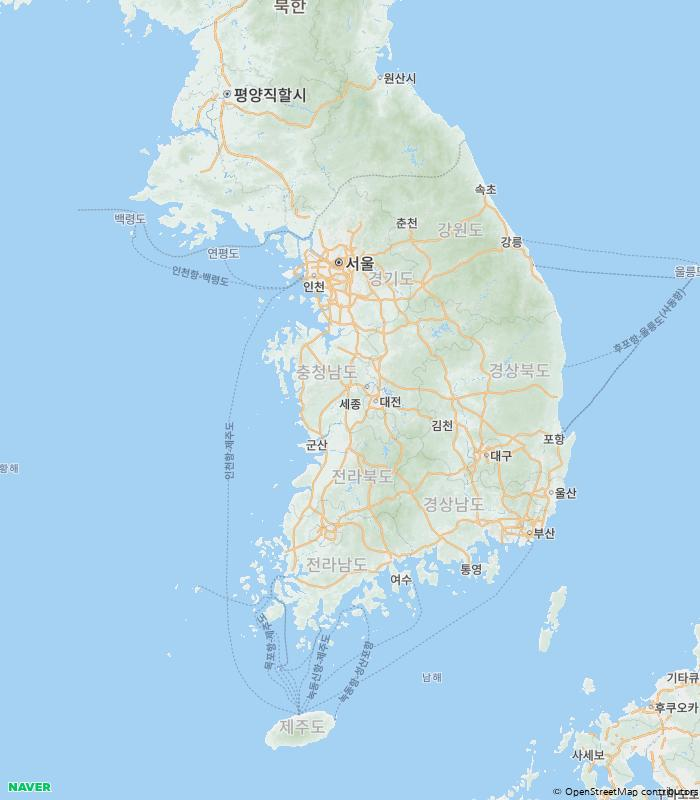
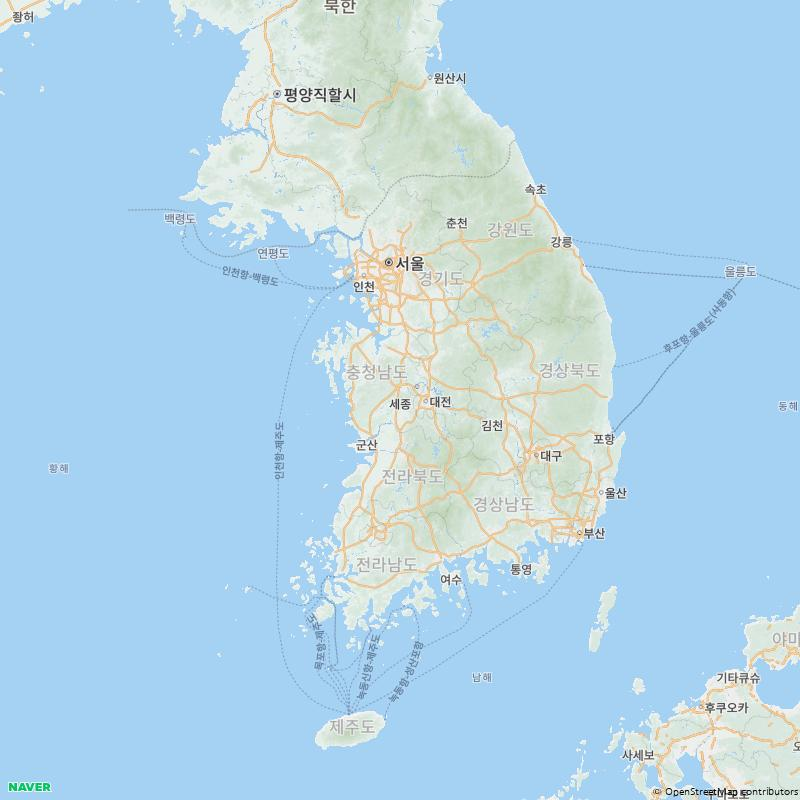
검색과 필터링 시 결과가 없으면 "결과 없음 출력"

diff --git a/src/main/java/org/howWeather/Filter.java b/src/main/java/org/howWeather/Filter.java
@@ -47,7 +47,7 @@ public class Filter extends JPanel implements ActionListener {
     public void VisibleFilter() {
         setLayout(new BoxLayout(this, BoxLayout.Y_AXIS));
         setBackground(Color.white);
-        setPreferredSize(new Dimension(300, 750));
+        setPreferredSize(new Dimension(150, 800));
 
         themeGrp = new FilterGroup("테마", new String[]{"문화/예술", "쇼핑/놀이", "자연/힐링", "종교/역사/전통", "체험/학습/산업", "캠핑/스포츠"});
         regionGrp = new FilterGroup("지역", 
@@ -120,8 +120,12 @@ public class Filter extends JPanel implements ActionListener {
                 list.add(DataBase.getCourseDataList(courseData.getCourseId()));
             }
         }
-
-        motherfrm.search.pushinfoPnl(new CourseInfo(motherfrm.search, list));
+        if(list.isEmpty()){
+            motherfrm.search.noneMassage();
+        }
+        else{
+            motherfrm.search.pushinfoPnl(new CourseInfo(motherfrm.search, list));
+        }
     }
 
     private void handleSelectedThemes() {
@@ -170,7 +174,12 @@ public class Filter extends JPanel implements ActionListener {
             }
         }
 
-        motherfrm.search.pushinfoPnl(new CourseInfo(motherfrm.search, resultList));
+        if(resultList.isEmpty()){
+            motherfrm.search.noneMassage();
+        } else{
+            motherfrm.search.pushinfoPnl(new CourseInfo(motherfrm.search, resultList));
+        }
+
     }
 
     private void printRegionCourse(String region) {
@@ -181,8 +190,12 @@ public class Filter extends JPanel implements ActionListener {
             for(CourseData data: courseList){
                 list.add(DataBase.getCourseDataList(data.getCourseId()));
             }
+            if(list.isEmpty()){
+                motherfrm.search.noneMassage();
+            } else{
+                motherfrm.search.pushinfoPnl(new CourseInfo(motherfrm.search, list));
+            }
 
-            motherfrm.search.pushinfoPnl(new CourseInfo(motherfrm.search, list));
         } else {
             System.out.println("해당 지역의 코드를 찾을 수 없습니다.");
         }

diff --git a/src/main/java/org/howWeather/Search.java b/src/main/java/org/howWeather/Search.java
@@ -27,6 +27,7 @@ public class Search extends JPanel implements ActionListener {
                 reset();
             }
         });
+        setPreferredSize(new Dimension(250,800));
         VisibleSearch();
     }
 
@@ -86,6 +87,12 @@ public class Search extends JPanel implements ActionListener {
         NaverMap2.setBasicMap();
     }
 
+    public void noneMassage(){
+        JPanel nonePnl = new JPanel();
+        nonePnl.add(new JLabel("결과가 없습니다."));
+        pushinfoPnl(nonePnl);
+    }
+
     @Override
     public void actionPerformed(ActionEvent e){
         String text = searchFld.getText();
@@ -93,11 +100,16 @@ public class Search extends JPanel implements ActionListener {
             motherFrm.filter.uncheckAll();
             infoPnlStack.clear();
             List<CourseData> list = DataBase.getCourseDataList(Long.parseLong(text));
-            NaverMap2.setCourseMap(list);
-            List<List<CourseData>> list2 = new ArrayList<List<CourseData>>();
-            list2.add(list);
-            CourseInfo courseInfo = new CourseInfo(this,list2);
-            pushinfoPnl(courseInfo);
+            if(list.isEmpty()){
+                noneMassage();
+            } else{
+                NaverMap2.setCourseMap(list);
+                List<List<CourseData>> list2 = new ArrayList<List<CourseData>>();
+                list2.add(list);
+                CourseInfo courseInfo = new CourseInfo(this,list2);
+                pushinfoPnl(courseInfo);
+            }
+
         }
     }
 

diff --git a/src/main/java/org/howWeather/NaverMap2.java b/src/main/java/org/howWeather/NaverMap2.java
@@ -20,7 +20,7 @@ public class NaverMap2 {
         }
 
         try {
-            String URL_STATICMAP = "https://naveropenapi.apigw.ntruss.com/map-static/v2/raster?w=700&h=800&center=127.1054221,36.3591614&level=6";
+            String URL_STATICMAP = "https://naveropenapi.apigw.ntruss.com/map-static/v2/raster?w=800&h=800&center=127.1054221,36.3591614&level=6";
 
             createMapImageFile(file, URL_STATICMAP);
 
@@ -39,7 +39,7 @@ public class NaverMap2 {
         }
 
         try {
-            String URL_STATICMAP = "https://naveropenapi.apigw.ntruss.com/map-static/v2/raster?&w=700&h=800";
+            String URL_STATICMAP = "https://naveropenapi.apigw.ntruss.com/map-static/v2/raster?&w=800&h=800";
 
             for (CourseData cd : list) {
                 String pos = URLEncoder.encode(cd.getLongitude() + " " + cd.getLatitude(), "UTF-8");
@@ -67,7 +67,7 @@ public class NaverMap2 {
         }
 
         try {
-            String URL_STATICMAP = "https://naveropenapi.apigw.ntruss.com/map-static/v2/raster?&w=700&h=800";
+            String URL_STATICMAP = "https://naveropenapi.apigw.ntruss.com/map-static/v2/raster?&w=800&h=800";
 
             String pos = URLEncoder.encode(coursedata.getLongitude() + " " + coursedata.getLatitude(), "UTF-8");
             URL_STATICMAP += "&markers=type:t|size:mid|pos:" + pos + "|label:" + URLEncoder.encode(coursedata.getTourismName(), "UTF-8");

diff --git a/src/main/java/org/howWeather/Frame.java b/src/main/java/org/howWeather/Frame.java
@@ -15,12 +15,13 @@ public class Frame extends JFrame {
         setSize(1400, 800);
         setDefaultCloseOperation(JFrame.EXIT_ON_CLOSE);     // 프레임의 X 클릭 시 종료.
         frameCnt = getContentPane();                     // JFrame 안쪽 영역.
+        frameCnt.setLayout(new BoxLayout(frameCnt, BoxLayout.X_AXIS));
 
         NaverMap2.setBasicMap();
 
-        frameCnt.add(BorderLayout.WEST,filter);
-        frameCnt.add(BorderLayout.CENTER, search);
-        frameCnt.add(BorderLayout.EAST, mapLbl);
+        frameCnt.add(filter);
+        frameCnt.add(search);
+        frameCnt.add(mapLbl);
 
         setVisible(true);
     }
